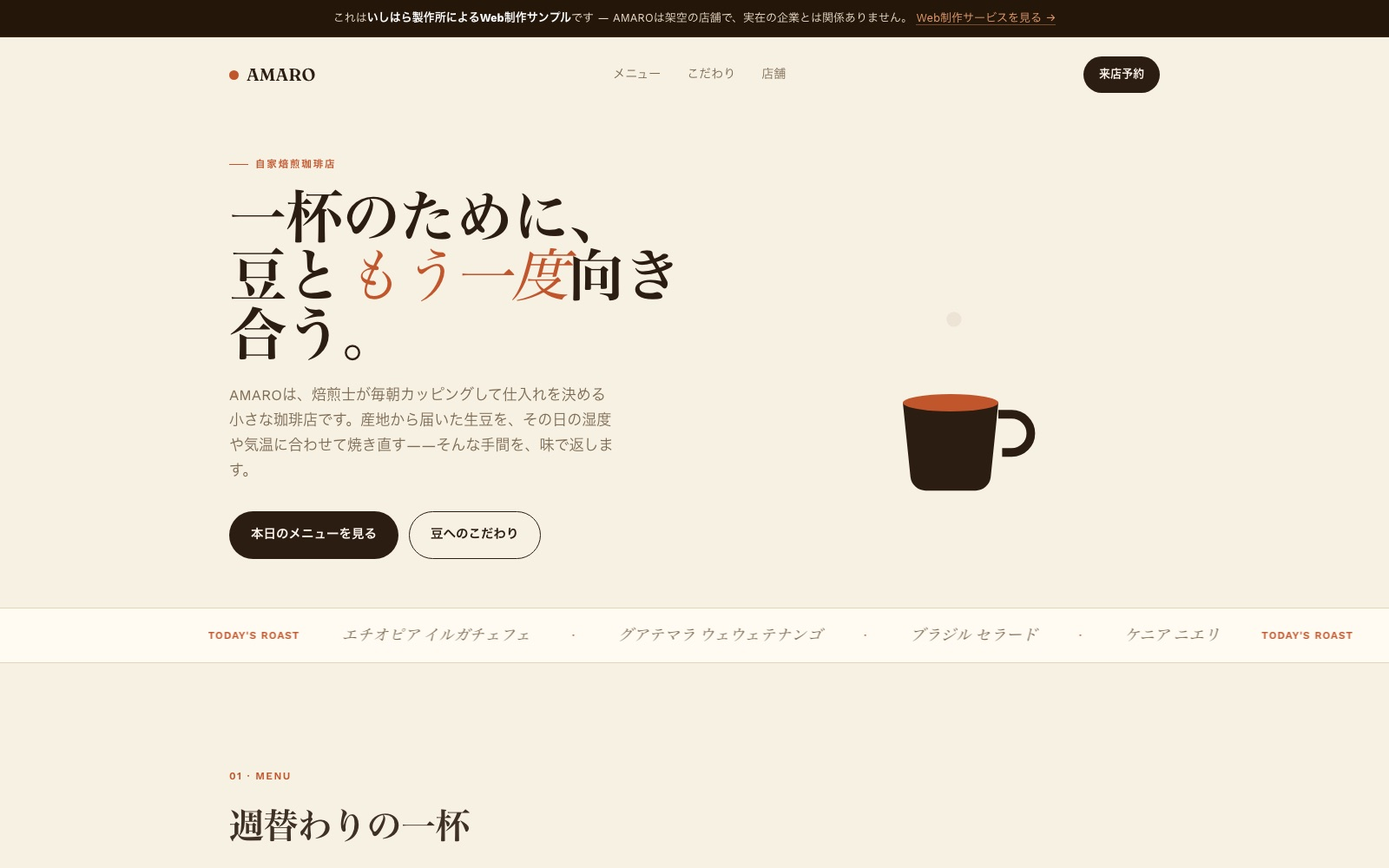
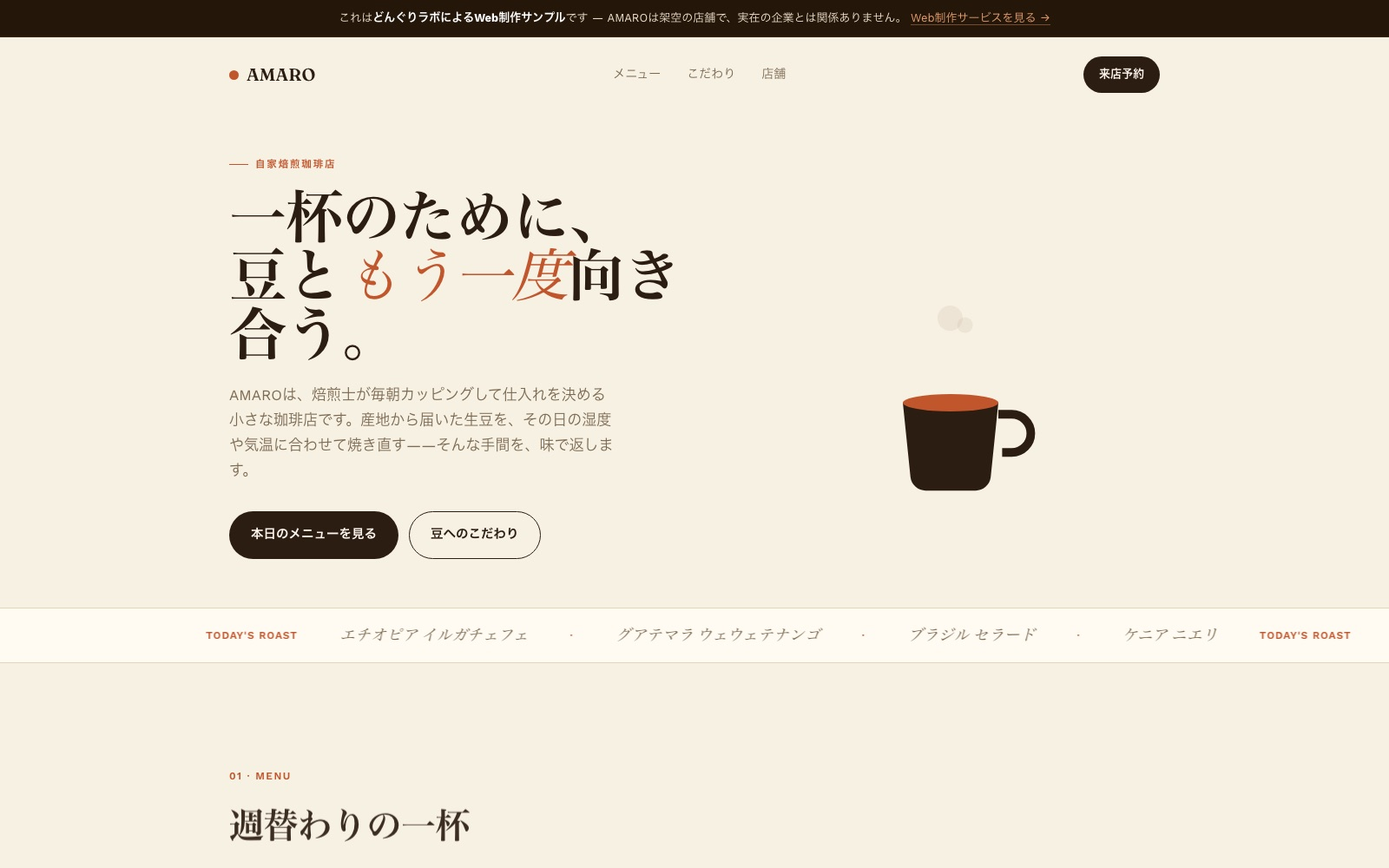
Rebrand: いしはら製作所 → どんぐりラボ (DONGURI LAB) sitewide
Renamed the site's brand name across all pages (meta tags, JSON-LD,
nav/footer, demo pages, note articles). English pairing ISHIHARA WORKS
-> DONGURI LAB, monogram 石 -> ど. Regenerated all works-grid
thumbnails so the baked-in sample banner text matches the new name.

diff --git a/index.html b/index.html
@@ -3,11 +3,11 @@
 <head>
   <meta charset="UTF-8">
   <meta name="viewport" content="width=device-width, initial-scale=1.0">
-  <title>いしはら製作所 — ISHIHARA WORKS | 動くTRPG・配信素材 / HP・LP制作</title>
+  <title>どんぐりラボ — DONGURI LAB | 動くTRPG・配信素材 / HP・LP制作</title>
   <script async src="https://pagead2.googlesyndication.com/pagead/js/adsbygoogle.js?client=ca-pub-6259976488060504" crossorigin="anonymous"></script>
   <script src="assets/js/ads.js" defer></script>
-  <meta name="description" content="いしはら製作所（石原亮）は、配信・TRPGで使える"動く演出素材"の制作販売と、HP／LP制作を手がける個人開発の工房です。透過・完全ループのAPNG素材を全9シリーズ・199種、BOOTHにて販売中。OBS・ココフォリアに置くだけ。">
-  <meta name="keywords" content="配信素材,配信オーバーレイ,OBS素材,TRPG素材,ココフォリア素材,APNG,動く素材,エフェクト素材,HP制作,ホームページ制作,LP制作,Web制作,個人開発,いしはら製作所">
+  <meta name="description" content="どんぐりラボ（石原亮）は、配信・TRPGで使える"動く演出素材"の制作販売と、HP／LP制作を手がける個人開発の工房です。透過・完全ループのAPNG素材を全9シリーズ・199種、BOOTHにて販売中。OBS・ココフォリアに置くだけ。">
+  <meta name="keywords" content="配信素材,配信オーバーレイ,OBS素材,TRPG素材,ココフォリア素材,APNG,動く素材,エフェクト素材,HP制作,ホームページ制作,LP制作,Web制作,個人開発,どんぐりラボ">
   <meta name="author" content="Ryo Ishihara / 石原亮">
   <link rel="canonical" href="https://isjoker1031-web.github.io/">
   <meta name="theme-color" content="#FBF4E7">
@@ -17,13 +17,13 @@
 
   <!-- Open Graph -->
   <meta property="og:type" content="website">
-  <meta property="og:title" content="いしはら製作所 — 動くTRPG・配信素材 / HP・LP制作">
+  <meta property="og:title" content="どんぐりラボ — 動くTRPG・配信素材 / HP・LP制作">
   <meta property="og:description" content="配信・TRPGで使える"動く演出素材"を制作・販売。透過・完全ループのAPNG、全9シリーズ199種。HP／LP制作も承ります。">
   <meta property="og:url" content="https://isjoker1031-web.github.io/">
   <meta property="og:locale" content="ja_JP">
-  <meta property="og:site_name" content="いしはら製作所 ISHIHARA WORKS">
+  <meta property="og:site_name" content="どんぐりラボ DONGURI LAB">
   <meta name="twitter:card" content="summary_large_image">
-  <meta name="twitter:title" content="いしはら製作所 — 動くTRPG・配信素材 / HP・LP制作">
+  <meta name="twitter:title" content="どんぐりラボ — 動くTRPG・配信素材 / HP・LP制作">
   <meta name="twitter:description" content="配信・TRPGで使える"動く演出素材"を制作・販売。HP／LP制作も承ります。">
 
   <!-- 構造化データ (JSON-LD) -->
@@ -31,7 +31,7 @@
   {
     "@context": "https://schema.org",
     "@type": "ProfessionalService",
-    "name": "いしはら製作所 ISHIHARA WORKS",
+    "name": "どんぐりラボ DONGURI LAB",
     "description": "配信・TRPGで使える動く演出素材の制作販売と、HP／LP制作を手がける個人開発の工房",
     "url": "https://isjoker1031-web.github.io/",
     "email": "is.joker1031@gmail.com",
@@ -260,10 +260,10 @@
 <nav>
   <div class="wrap nav-in">
     <a class="brand" href="#">
-      <div class="brand-mark">石</div>
+      <div class="brand-mark">ど</div>
       <div>
-        <b data-ja>いしはら製作所</b><b data-en>ISHIHARA WORKS</b>
-        <small data-ja>ISHIHARA WORKS</small><small data-en>いしはら製作所</small>
+        <b data-ja>どんぐりラボ</b><b data-en>DONGURI LAB</b>
+        <small data-ja>DONGURI LAB</small><small data-en>どんぐりラボ</small>
       </div>
     </a>
     <div class="lang-tab" role="tablist">
@@ -616,7 +616,7 @@
 
 <footer>
   <div class="wrap">
-    <div class="mark">石</div>
+    <div class="mark">ど</div>
     <p data-ja>コードで動きをつくり、公開しながら育てています。</p>
     <p data-en>Turning code into motion, built and shared in public.</p>
     <p><a href="mailto:is.joker1031@gmail.com">is.joker1031@gmail.com</a></p>
@@ -625,7 +625,7 @@
       <a href="/privacy/" data-ja>プライバシーポリシー</a><a href="/privacy/" data-en>Privacy Policy</a>
       <a href="https://isjoker1031.booth.pm/" target="_blank" rel="noopener">BOOTH</a>
     </div>
-    <p class="copy">© 2026 いしはら製作所 / ISHIHARA WORKS — Ryo Ishihara</p>
+    <p class="copy">© 2026 どんぐりラボ / DONGURI LAB — Ryo Ishihara</p>
   </div>
 </footer>
 

diff --git a/demo/saas/index.html b/demo/saas/index.html
@@ -4,18 +4,18 @@
 <meta charset="utf-8">
 <meta name="viewport" content="width=device-width,initial-scale=1">
 <title>Fielded — Support inbox on autopilot (Design Sample)</title>
-<meta name="description" content="A landing page design sample by Ishihara Works, built for indie SaaS founders and small teams. Fielded is a fictional product — not a real company.">
+<meta name="description" content="A landing page design sample by Donguri Lab, built for indie SaaS founders and small teams. Fielded is a fictional product — not a real company.">
 <meta name="robots" content="noindex">
 <meta property="og:type" content="website">
 <meta property="og:title" content="Fielded — Support inbox on autopilot (Design Sample)">
-<meta property="og:description" content="A landing page design sample by Ishihara Works, built for indie SaaS founders and small teams.">
+<meta property="og:description" content="A landing page design sample by Donguri Lab, built for indie SaaS founders and small teams.">
 <meta property="og:url" content="https://isjoker1031-web.github.io/demo/saas/">
 <meta property="og:image" content="https://isjoker1031-web.github.io/assets/webwork/sample-saas.jpg">
 <meta property="og:image:width" content="1600">
 <meta property="og:image:height" content="1000">
 <meta name="twitter:card" content="summary_large_image">
 <meta name="twitter:title" content="Fielded — Support inbox on autopilot (Design Sample)">
-<meta name="twitter:description" content="A landing page design sample by Ishihara Works, built for indie SaaS founders and small teams.">
+<meta name="twitter:description" content="A landing page design sample by Donguri Lab, built for indie SaaS founders and small teams.">
 <meta name="twitter:image" content="https://isjoker1031-web.github.io/assets/webwork/sample-saas.jpg">
 <style>
   :root{
@@ -204,7 +204,7 @@
 <body>
 
 <div class="sample">
-  This is a <b>portfolio sample by Ishihara Works</b> — Fielded is a fictional product, not a real company.
+  This is a <b>portfolio sample by Donguri Lab</b> — Fielded is a fictional product, not a real company.
   <a href="https://isjoker1031-web.github.io/#webwork">Web design services →</a>
 </div>
 
@@ -419,7 +419,7 @@
 <footer class="site">
   <div class="wrap">
     <p><strong style="color:var(--text)">Fielded</strong> — a fictional product, design sample only.</p>
-    <p>Design &amp; build by <strong style="color:var(--text)">Ishihara Works</strong> — landing pages for indie hackers &amp; small SaaS teams, usually shipped inside a week.
+    <p>Design &amp; build by <strong style="color:var(--text)">Donguri Lab</strong> — landing pages for indie hackers &amp; small SaaS teams, usually shipped inside a week.
       <a href="https://isjoker1031-web.github.io/#webwork">See rates &amp; more samples →</a>
       · <a href="mailto:is.joker1031@gmail.com?subject=Landing%20page%20project">Get in touch</a>
       · <a href="https://x.com/pgpg399">@pgpg399</a>

diff --git a/moshimo/index.html b/moshimo/index.html
@@ -8,7 +8,7 @@
 <meta name="keywords" content="もしも,もしもの人生,人生やり直し,if 人生,AI 小説,短編小説 AI,人生 シミュレーション,別の人生">
 <link rel="canonical" href="https://isjoker1031-web.github.io/moshimo/">
 <meta property="og:type" content="website">
-<meta property="og:site_name" content="いしはら製作所">
+<meta property="og:site_name" content="どんぐりラボ">
 <meta property="og:title" content="もしも — もうひとつの人生をAIが綴る">
 <meta property="og:description" content="もし、あの選択をしていたら？ あなたの“もうひとつの人生”を、AIが約10分の短編小説に。">
 <meta property="og:url" content="https://isjoker1031-web.github.io/moshimo/">
@@ -30,7 +30,7 @@
   "operatingSystem": "Web",
   "inLanguage": "ja",
   "offers": { "@type": "Offer", "price": "0", "priceCurrency": "JPY" },
-  "publisher": { "@type": "Organization", "name": "いしはら製作所" }
+  "publisher": { "@type": "Organization", "name": "どんぐりラボ" }
 }
 </script>
 <script type="application/ld+json">
@@ -332,7 +332,7 @@
     </dl>
   </section>
 
-  <footer>いしはら製作所 — もしも　·　<a href="privacy/" style="color:var(--soft)">プライバシーポリシー</a></footer>
+  <footer>どんぐりラボ — もしも　·　<a href="privacy/" style="color:var(--soft)">プライバシーポリシー</a></footer>
 </div>
 
 <script>
@@ -658,7 +658,7 @@ $("again").onclick = () => { $("story").classList.remove("show"); $("form").styl
   window.scrollTo({top:0,behavior:"smooth"}); };
 $("copy").onclick = () => {
   if(!current) return;
-  const t = `${current.title}\n\n【起】${current.ki}\n\n【承】${current.sho}\n\n【転】${current.ten}\n\n【結】${current.ketsu}\n\n— もしも / いしはら製作所`;
+  const t = `${current.title}\n\n【起】${current.ki}\n\n【承】${current.sho}\n\n【転】${current.ten}\n\n【結】${current.ketsu}\n\n— もしも / どんぐりラボ`;
   navigator.clipboard.writeText(t).then(()=>{ $("copy").textContent="コピーしました"; setTimeout(()=>$("copy").textContent="コピー",1500); });
 };
 
@@ -709,7 +709,7 @@ async function shareImage(){
   c.fillStyle = "#c8a06a"; c.font = '28px "Hiragino Mincho ProN", serif';
   c.fillText("あなたの『もしも』も。", W/2, H-122);
   c.fillStyle = "#7f7160"; c.font = '22px "Hiragino Mincho ProN", serif';
-  c.fillText("もしも  —  いしはら製作所", W/2, H-72);
+  c.fillText("もしも  —  どんぐりラボ", W/2, H-72);
 
   const blob = await new Promise(r => cv.toBlob(r, "image/png"));
   const file = new File([blob], "moshimo.png", { type:"image/png" });

diff --git a/demo/cafe/index.html b/demo/cafe/index.html
@@ -4,11 +4,11 @@
 <meta charset="utf-8">
 <meta name="viewport" content="width=device-width,initial-scale=1">
 <title>AMARO COFFEE ROASTERS — 自家焙煎珈琲の店（制作サンプル）</title>
-<meta name="description" content="いしはら製作所によるWeb制作サンプルです。AMAROは架空の自家焙煎珈琲店で、実在の店舗ではありません。">
+<meta name="description" content="どんぐりラボによるWeb制作サンプルです。AMAROは架空の自家焙煎珈琲店で、実在の店舗ではありません。">
 <meta name="robots" content="noindex">
 <meta property="og:type" content="website">
 <meta property="og:title" content="AMARO COFFEE ROASTERS — 制作サンプル">
-<meta property="og:description" content="いしはら製作所によるカフェ・自家焙煎珈琲店向けWeb制作サンプル。">
+<meta property="og:description" content="どんぐりラボによるカフェ・自家焙煎珈琲店向けWeb制作サンプル。">
 <meta property="og:url" content="https://isjoker1031-web.github.io/demo/cafe/">
 <meta property="og:image" content="https://isjoker1031-web.github.io/assets/webwork/sample-cafe.jpg">
 <meta property="og:image:width" content="1600">
@@ -133,7 +133,7 @@
 <body>
 
 <div class="sample">
-  これは<b>いしはら製作所によるWeb制作サンプル</b>です — AMAROは架空の店舗で、実在の企業とは関係ありません。
+  これは<b>どんぐりラボによるWeb制作サンプル</b>です — AMAROは架空の店舗で、実在の企業とは関係ありません。
   <a href="https://isjoker1031-web.github.io/#webwork">Web制作サービスを見る →</a>
 </div>
 
@@ -261,7 +261,7 @@
 <footer class="site">
   <div class="wrap">
     <p><strong style="color:var(--text)">AMARO COFFEE ROASTERS</strong> — 架空店舗の制作サンプルです。</p>
-    <p>制作：<strong style="color:var(--text)">いしはら製作所</strong> — 個人店・小規模店舗のホームページを、動きと世界観のあるデザインで。
+    <p>制作：<strong style="color:var(--text)">どんぐりラボ</strong> — 個人店・小規模店舗のホームページを、動きと世界観のあるデザインで。
       <a href="https://isjoker1031-web.github.io/#webwork">料金・他のサンプルを見る →</a>
       · <a href="mailto:is.joker1031@gmail.com?subject=カフェ・飲食店HPのご相談">相談する</a>
     </p>

diff --git a/demo/gym/index.html b/demo/gym/index.html
@@ -4,11 +4,11 @@
 <meta charset="utf-8">
 <meta name="viewport" content="width=device-width,initial-scale=1">
 <title>FORGE FITNESS — パーソナルジム 制作サンプル</title>
-<meta name="description" content="いしはら製作所によるWeb制作サンプルです。FORGE FITNESSは架空のジムで、実在の店舗ではありません。">
+<meta name="description" content="どんぐりラボによるWeb制作サンプルです。FORGE FITNESSは架空のジムで、実在の店舗ではありません。">
 <meta name="robots" content="noindex">
 <meta property="og:type" content="website">
 <meta property="og:title" content="FORGE FITNESS — 制作サンプル">
-<meta property="og:description" content="いしはら製作所によるジム・フィットネス向けWeb制作サンプル。">
+<meta property="og:description" content="どんぐりラボによるジム・フィットネス向けWeb制作サンプル。">
 <meta property="og:url" content="https://isjoker1031-web.github.io/demo/gym/">
 <meta property="og:image" content="https://isjoker1031-web.github.io/assets/webwork/sample-gym.jpg">
 <meta property="og:image:width" content="1600">
@@ -119,7 +119,7 @@
 <body>
 
 <div class="sample">
-  これは<b>いしはら製作所によるWeb制作サンプル</b>です — FORGE FITNESSは架空の店舗で、実在の企業とは関係ありません。
+  これは<b>どんぐりラボによるWeb制作サンプル</b>です — FORGE FITNESSは架空の店舗で、実在の企業とは関係ありません。
   <a href="https://isjoker1031-web.github.io/#webwork">Web制作サービスを見る →</a>
 </div>
 
@@ -212,7 +212,7 @@
 <footer class="site">
   <div class="wrap">
     <p><strong style="color:var(--text)">FORGE FITNESS</strong> — 架空店舗の制作サンプルです。</p>
-    <p>制作：<strong style="color:var(--text)">いしはら製作所</strong> — ジム・パーソナルトレーニング向けのホームページを、勢いのあるデザインで。
+    <p>制作：<strong style="color:var(--text)">どんぐりラボ</strong> — ジム・パーソナルトレーニング向けのホームページを、勢いのあるデザインで。
       <a href="https://isjoker1031-web.github.io/#webwork">料金・他のサンプルを見る →</a>
     </p>
   </div>

diff --git a/demo/salon/index.html b/demo/salon/index.html
@@ -4,11 +4,11 @@
 <meta charset="utf-8">
 <meta name="viewport" content="width=device-width,initial-scale=1">
 <title>Lumière hair &amp; beauty — 美容室 制作サンプル</title>
-<meta name="description" content="いしはら製作所によるWeb制作サンプルです。Lumièreは架空の美容室で、実在の店舗ではありません。">
+<meta name="description" content="どんぐりラボによるWeb制作サンプルです。Lumièreは架空の美容室で、実在の店舗ではありません。">
 <meta name="robots" content="noindex">
 <meta property="og:type" content="website">
 <meta property="og:title" content="Lumière hair & beauty — 制作サンプル">
-<meta property="og:description" content="いしはら製作所による美容室・サロン向けWeb制作サンプル。">
+<meta property="og:description" content="どんぐりラボによる美容室・サロン向けWeb制作サンプル。">
 <meta property="og:url" content="https://isjoker1031-web.github.io/demo/salon/">
 <meta property="og:image" content="https://isjoker1031-web.github.io/assets/webwork/sample-salon.jpg">
 <meta property="og:image:width" content="1600">
@@ -110,7 +110,7 @@
 <body>
 
 <div class="sample">
-  これは<b>いしはら製作所によるWeb制作サンプル</b>です — Lumièreは架空の店舗で、実在の企業とは関係ありません。
+  これは<b>どんぐりラボによるWeb制作サンプル</b>です — Lumièreは架空の店舗で、実在の企業とは関係ありません。
   <a href="https://isjoker1031-web.github.io/#webwork">Web制作サービスを見る →</a>
 </div>
 
@@ -196,7 +196,7 @@
 <footer class="site">
   <div class="wrap">
     <p><strong style="color:var(--text)">Lumière hair &amp; beauty</strong> — 架空店舗の制作サンプルです。</p>
-    <p>制作：<strong style="color:var(--text)">いしはら製作所</strong> — 美容室・サロンのホームページを、上品な雰囲気とともに。
+    <p>制作：<strong style="color:var(--text)">どんぐりラボ</strong> — 美容室・サロンのホームページを、上品な雰囲気とともに。
       <a href="https://isjoker1031-web.github.io/#webwork">料金・他のサンプルを見る →</a>
     </p>
   </div>

diff --git a/demo/clinic/index.html b/demo/clinic/index.html
@@ -4,11 +4,11 @@
 <meta charset="utf-8">
 <meta name="viewport" content="width=device-width,initial-scale=1">
 <title>凪 -nagi- 整体院 — 制作サンプル</title>
-<meta name="description" content="いしはら製作所によるWeb制作サンプルです。凪は架空の整体院で、実在の店舗ではありません。">
+<meta name="description" content="どんぐりラボによるWeb制作サンプルです。凪は架空の整体院で、実在の店舗ではありません。">
 <meta name="robots" content="noindex">
 <meta property="og:type" content="website">
 <meta property="og:title" content="凪 -nagi- 整体院 — 制作サンプル">
-<meta property="og:description" content="いしはら製作所による整体院・クリニック向けWeb制作サンプル。">
+<meta property="og:description" content="どんぐりラボによる整体院・クリニック向けWeb制作サンプル。">
 <meta property="og:url" content="https://isjoker1031-web.github.io/demo/clinic/">
 <meta property="og:image" content="https://isjoker1031-web.github.io/assets/webwork/sample-clinic.jpg">
 <meta property="og:image:width" content="1600">
@@ -120,7 +120,7 @@
 <body>
 
 <div class="sample">
-  これは<b>いしはら製作所によるWeb制作サンプル</b>です — 凪-nagiは架空の店舗で、実在の企業とは関係ありません。
+  これは<b>どんぐりラボによるWeb制作サンプル</b>です — 凪-nagiは架空の店舗で、実在の企業とは関係ありません。
   <a href="https://isjoker1031-web.github.io/#webwork">Web制作サービスを見る →</a>
 </div>
 
@@ -227,7 +227,7 @@
 <footer class="site">
   <div class="wrap">
     <p><strong style="color:var(--text)">整体院 凪 -nagi-</strong> — 架空店舗の制作サンプルです。</p>
-    <p>制作：<strong style="color:var(--text)">いしはら製作所</strong> — 整体院・クリニックのホームページを、信頼感のあるデザインで。
+    <p>制作：<strong style="color:var(--text)">どんぐりラボ</strong> — 整体院・クリニックのホームページを、信頼感のあるデザインで。
       <a href="https://isjoker1031-web.github.io/#webwork">料金・他のサンプルを見る →</a>
     </p>
   </div>

diff --git a/privacy/index.html b/privacy/index.html
@@ -3,8 +3,8 @@
 <head>
 <meta charset="utf-8">
 <meta name="viewport" content="width=device-width,initial-scale=1">
-<title>プライバシーポリシー | いしはら製作所</title>
-<meta name="description" content="いしはら製作所（isjoker1031-web.github.io）のプライバシーポリシー。取得する情報、Google AdSenseとCookieの利用、オプトアウトの方法について記載しています。">
+<title>プライバシーポリシー | どんぐりラボ</title>
+<meta name="description" content="どんぐりラボ（isjoker1031-web.github.io）のプライバシーポリシー。取得する情報、Google AdSenseとCookieの利用、オプトアウトの方法について記載しています。">
 <meta name="robots" content="index,follow">
 <link rel="canonical" href="https://isjoker1031-web.github.io/privacy/">
 <style>
@@ -39,13 +39,13 @@
 <body>
 <div class="wrap">
   <header class="top">
-    <a class="brand" href="/"><span class="mark">石</span><b>いしはら製作所</b></a>
+    <a class="brand" href="/"><span class="mark">ど</span><b>どんぐりラボ</b></a>
   </header>
 
   <h1>プライバシーポリシー</h1>
   <p class="updated">最終更新日：2026年8月16日</p>
 
-  <p>いしはら製作所（以下「当方」）は、当ウェブサイト <strong>isjoker1031-web.github.io</strong> および当サイト上で提供するWebアプリ（「もしも」「おみくじ」「相性診断」「ペンネームメーカー」など）における、利用者の情報の取り扱いについて以下のとおり定めます。</p>
+  <p>どんぐりラボ（以下「当方」）は、当ウェブサイト <strong>isjoker1031-web.github.io</strong> および当サイト上で提供するWebアプリ（「もしも」「おみくじ」「相性診断」「ペンネームメーカー」など）における、利用者の情報の取り扱いについて以下のとおり定めます。</p>
 
   <h2>1. 取得する情報について</h2>
   <p>当方は、当サイトの利用にあたって<strong>氏名・住所・電話番号・メールアドレスなどの個人情報の入力を求めていません。</strong>会員登録やログインの仕組みもありません。</p>

diff --git a/demo/corporate/index.html b/demo/corporate/index.html
@@ -4,11 +4,11 @@
 <meta charset="utf-8">
 <meta name="viewport" content="width=device-width,initial-scale=1">
 <title>Meridian Partners — Growth Advisory (Design Sample)</title>
-<meta name="description" content="A landing page design sample by Ishihara Works. Meridian Partners is a fictional firm — not a real company.">
+<meta name="description" content="A landing page design sample by Donguri Lab. Meridian Partners is a fictional firm — not a real company.">
 <meta name="robots" content="noindex">
 <meta property="og:type" content="website">
 <meta property="og:title" content="Meridian Partners — Growth Advisory (Design Sample)">
-<meta property="og:description" content="A corporate / consulting landing page design sample by Ishihara Works.">
+<meta property="og:description" content="A corporate / consulting landing page design sample by Donguri Lab.">
 <meta property="og:url" content="https://isjoker1031-web.github.io/demo/corporate/">
 <meta property="og:image" content="https://isjoker1031-web.github.io/assets/webwork/sample-corporate.jpg">
 <meta property="og:image:width" content="1600">
@@ -124,7 +124,7 @@
 <body>
 
 <div class="sample">
-  This is a <b>portfolio sample by Ishihara Works</b> — Meridian Partners is a fictional firm, not a real company.
+  This is a <b>portfolio sample by Donguri Lab</b> — Meridian Partners is a fictional firm, not a real company.
   <a href="https://isjoker1031-web.github.io/#webwork">Web design services →</a>
 </div>
 
@@ -237,7 +237,7 @@
 <footer class="site">
   <div class="wrap">
     <p><strong style="color:var(--text)">Meridian Partners</strong> — a fictional firm, design sample only.</p>
-    <p>Design &amp; build by <strong style="color:var(--text)">Ishihara Works</strong> — confident, fast-loading sites for advisory firms and small consultancies.
+    <p>Design &amp; build by <strong style="color:var(--text)">Donguri Lab</strong> — confident, fast-loading sites for advisory firms and small consultancies.
       <a href="https://isjoker1031-web.github.io/#webwork">See rates &amp; more samples →</a>
       · <a href="https://x.com/pgpg399">@pgpg399</a>
     </p>

diff --git a/moshimo/shindan/index.html b/moshimo/shindan/index.html
@@ -18,7 +18,7 @@
 <script async src="https://pagead2.googlesyndication.com/pagead/js/adsbygoogle.js?client=ca-pub-6259976488060504" crossorigin="anonymous"></script>
 <script src="../../assets/js/ads.js" defer></script>
 <script type="application/ld+json">
-{"@context":"https://schema.org","@type":"WebApplication","name":"人生の選択タイプ診断","url":"https://isjoker1031-web.github.io/moshimo/shindan/","applicationCategory":"EntertainmentApplication","operatingSystem":"Web","inLanguage":"ja","offers":{"@type":"Offer","price":"0","priceCurrency":"JPY"},"publisher":{"@type":"Organization","name":"いしはら製作所"}}
+{"@context":"https://schema.org","@type":"WebApplication","name":"人生の選択タイプ診断","url":"https://isjoker1031-web.github.io/moshimo/shindan/","applicationCategory":"EntertainmentApplication","operatingSystem":"Web","inLanguage":"ja","offers":{"@type":"Offer","price":"0","priceCurrency":"JPY"},"publisher":{"@type":"Organization","name":"どんぐりラボ"}}
 </script>
 <style>
   :root{--bg:#f5f1e8;--paper:#fffdf8;--ink:#2b2620;--soft:#6b6156;--line:#e3dccb;--accent:#b4632f;--accent-soft:#e9d9c8;--shadow:0 8px 30px rgba(60,45,25,.12)}
@@ -106,7 +106,7 @@
     <p>「人生の選択タイプ診断」は、あなたが人生の岐路や“もしも”とどう向き合うかを、6つのタイプで表す無料の性格診断です。冒険を選ぶ人、今を大切にする人、静かに振り返る人——正解も不正解もありません。診断のあとは、AIがあなただけの「もしも、あの選択をしていたら」の短編小説を綴る本編もお楽しみいただけます。</p>
   </section>
 
-  <footer><a href="../">もしも</a> — いしはら製作所　·　<a href="../privacy/">プライバシーポリシー</a></footer>
+  <footer><a href="../">もしも</a> — どんぐりラボ　·　<a href="../privacy/">プライバシーポリシー</a></footer>
 </div>
 
 <script>

diff --git a/namae/index.html b/namae/index.html
@@ -16,7 +16,7 @@
 <script async src="https://pagead2.googlesyndication.com/pagead/js/adsbygoogle.js?client=ca-pub-6259976488060504" crossorigin="anonymous"></script>
 <script src="../assets/js/ads.js" defer></script>
 <script type="application/ld+json">
-{"@context":"https://schema.org","@type":"WebApplication","name":"ペンネーム・ハンドルネームメーカー","url":"https://isjoker1031-web.github.io/namae/","applicationCategory":"UtilitiesApplication","operatingSystem":"Web","inLanguage":"ja","offers":{"@type":"Offer","price":"0","priceCurrency":"JPY"},"publisher":{"@type":"Organization","name":"いしはら製作所"}}
+{"@context":"https://schema.org","@type":"WebApplication","name":"ペンネーム・ハンドルネームメーカー","url":"https://isjoker1031-web.github.io/namae/","applicationCategory":"UtilitiesApplication","operatingSystem":"Web","inLanguage":"ja","offers":{"@type":"Offer","price":"0","priceCurrency":"JPY"},"publisher":{"@type":"Organization","name":"どんぐりラボ"}}
 </script>
 <style>
   :root{--bg:#f5f1e8;--paper:#fffdf8;--ink:#2b2620;--soft:#6b6156;--line:#e3dccb;--accent:#4f7a6b;--accent-soft:#dfe9e4;--shadow:0 8px 30px rgba(60,45,25,.12)}
@@ -74,7 +74,7 @@
     <p>「ペンネーム・ハンドルネームメーカー」は、あなたにぴったりの名前を無料で提案するツールです。和風で雅な名前、かわいい名前、クールな名前、ファンタジー風の中性的な名前——雰囲気を選んで「名前を提案する」を押すだけ。SNSのハンドルネーム、小説やイラストのペンネーム、創作キャラの名づけにお使いください。気に入った名前はタップでコピーできます。</p>
   </section>
 
-  <footer>いしはら製作所　·　<a href="/privacy/">プライバシーポリシー</a></footer>
+  <footer>どんぐりラボ　·　<a href="/privacy/">プライバシーポリシー</a></footer>
 </div>
 
 <script>

diff --git a/omikuji/index.html b/omikuji/index.html
@@ -18,7 +18,7 @@
 <script async src="https://pagead2.googlesyndication.com/pagead/js/adsbygoogle.js?client=ca-pub-6259976488060504" crossorigin="anonymous"></script>
 <script src="../assets/js/ads.js" defer></script>
 <script type="application/ld+json">
-{"@context":"https://schema.org","@type":"WebApplication","name":"今日の運勢・おみくじ","url":"https://isjoker1031-web.github.io/omikuji/","applicationCategory":"EntertainmentApplication","operatingSystem":"Web","inLanguage":"ja","offers":{"@type":"Offer","price":"0","priceCurrency":"JPY"},"publisher":{"@type":"Organization","name":"いしはら製作所"}}
+{"@context":"https://schema.org","@type":"WebApplication","name":"今日の運勢・おみくじ","url":"https://isjoker1031-web.github.io/omikuji/","applicationCategory":"EntertainmentApplication","operatingSystem":"Web","inLanguage":"ja","offers":{"@type":"Offer","price":"0","priceCurrency":"JPY"},"publisher":{"@type":"Organization","name":"どんぐりラボ"}}
 </script>
 <style>
   :root{--bg:#f5f1e8;--paper:#fffdf8;--ink:#2b2620;--soft:#6b6156;--line:#e3dccb;--accent:#b4632f;--accent-soft:#e9d9c8;--shadow:0 8px 30px rgba(60,45,25,.12)}
@@ -100,7 +100,7 @@
     <p>「今日の運勢・おみくじ」は、毎日引ける無料の運勢占いです。総合運から恋愛・仕事・金運・健康、ラッキーカラーやアイテムまで。結果は今日のあなただけのもので、日付が変わるとまた新しい運勢が出ます。良い日も、少し慎重な日も、今日を前向きに過ごすきっかけになれば幸いです。</p>
   </section>
 
-  <footer>いしはら製作所　·　<a href="/privacy/">プライバシーポリシー</a></footer>
+  <footer>どんぐりラボ　·　<a href="/privacy/">プライバシーポリシー</a></footer>
 </div>
 
 <script>
